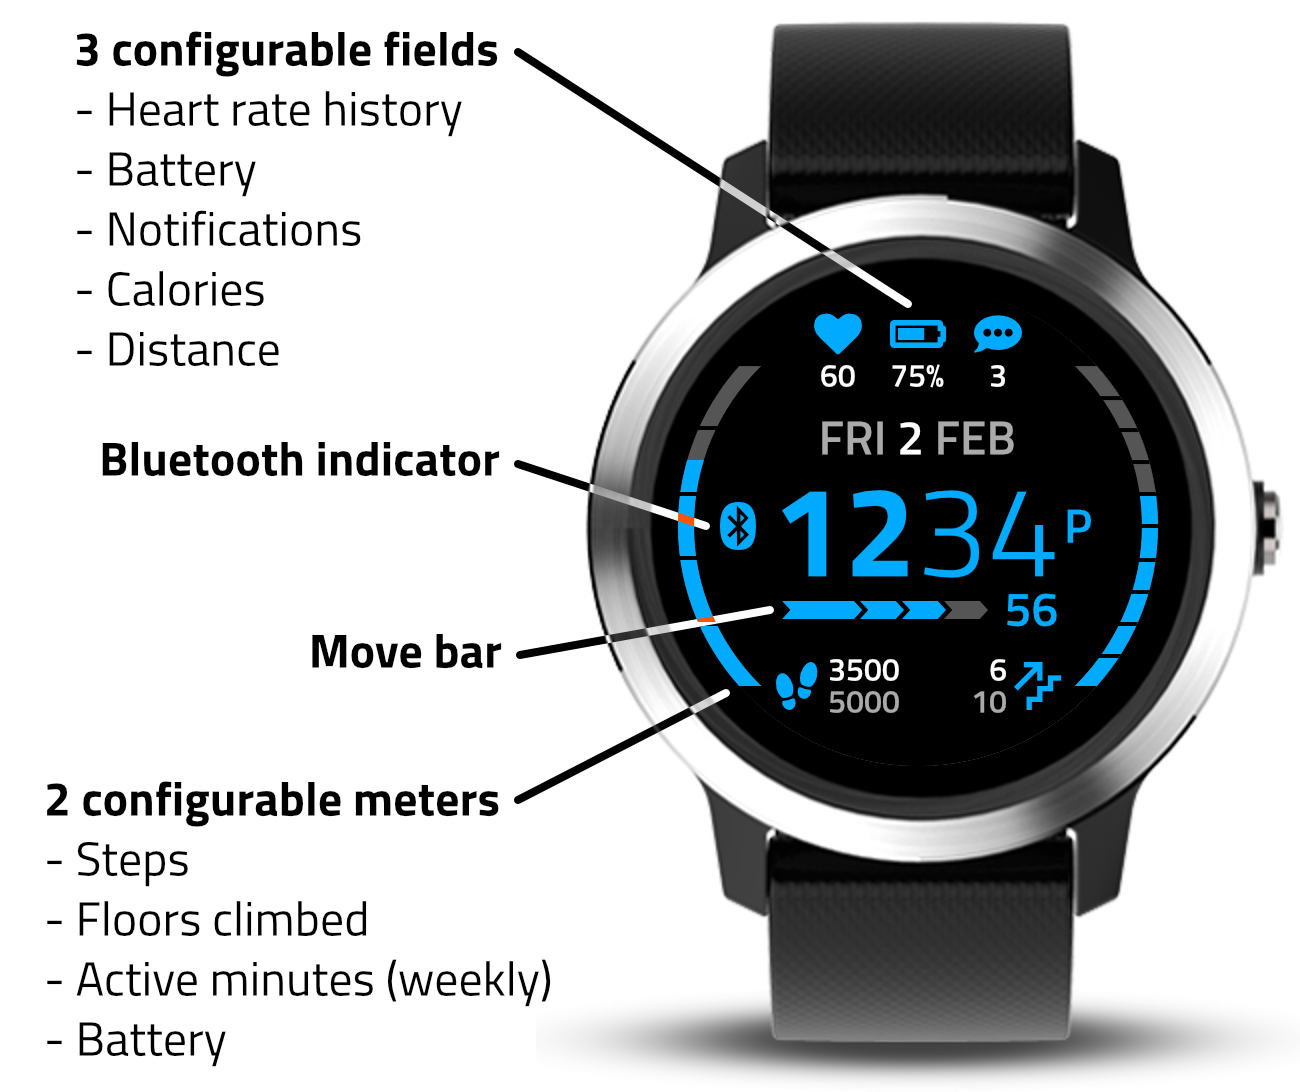
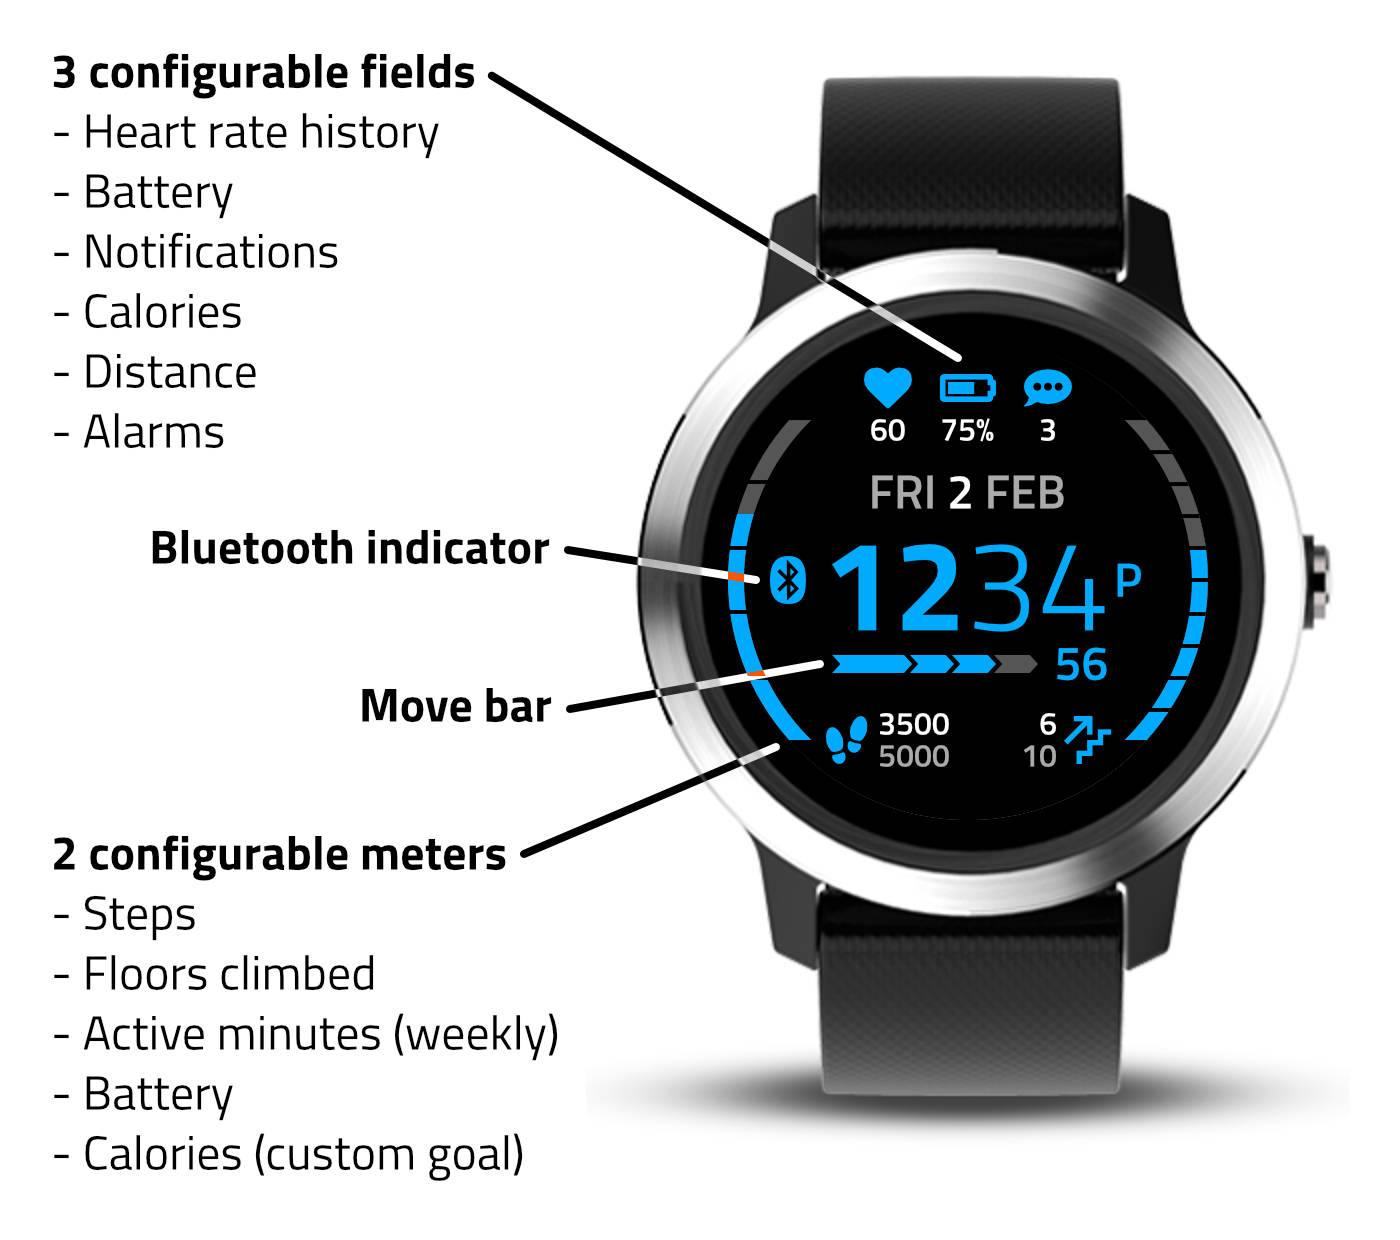
1.5.1

Changed region(s): [[0.0308, 0.0, 0.9846, 0.9963], [0.0308, 0.6538, 0.4308, 0.9652]]

diff --git a/README.md b/README.md
@@ -17,6 +17,10 @@ This is my first ever Connect IQ watch face (please be kind!), so I look forward
 
 ## What's New
 
+### 1.5.1
+- Added alarms data field option.
+- Rollout to CIQ 1.x devices, part 2: Forerunner® 230, Forerunner® 235, Forerunner® 630.
+
 ### 1.5.0
 - Rollout to CIQ 1.x devices, part 1: D2™ Bravo, D2™ Bravo Titanium, fēnix® 3, fēnix® 3 HR.
 
